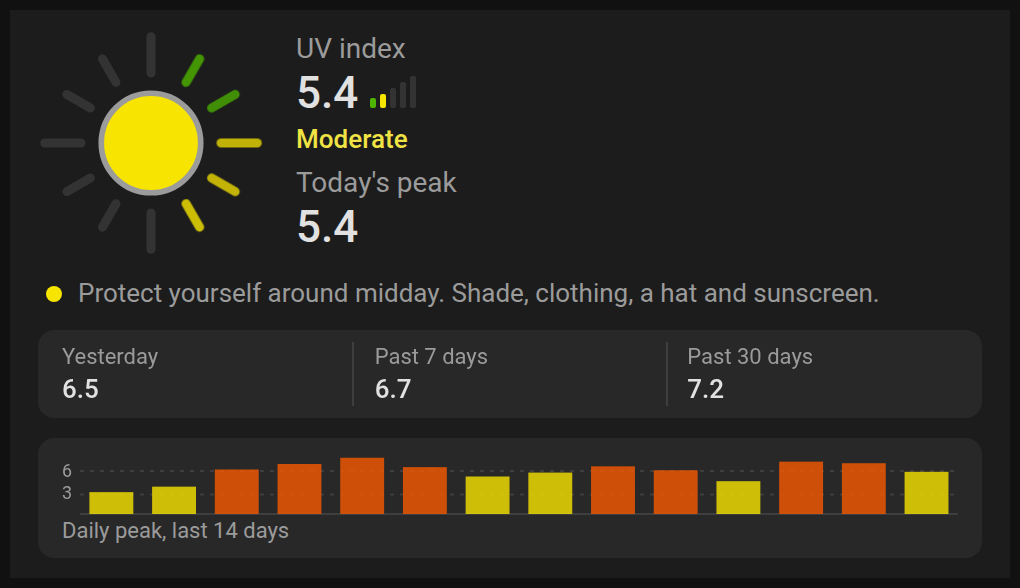
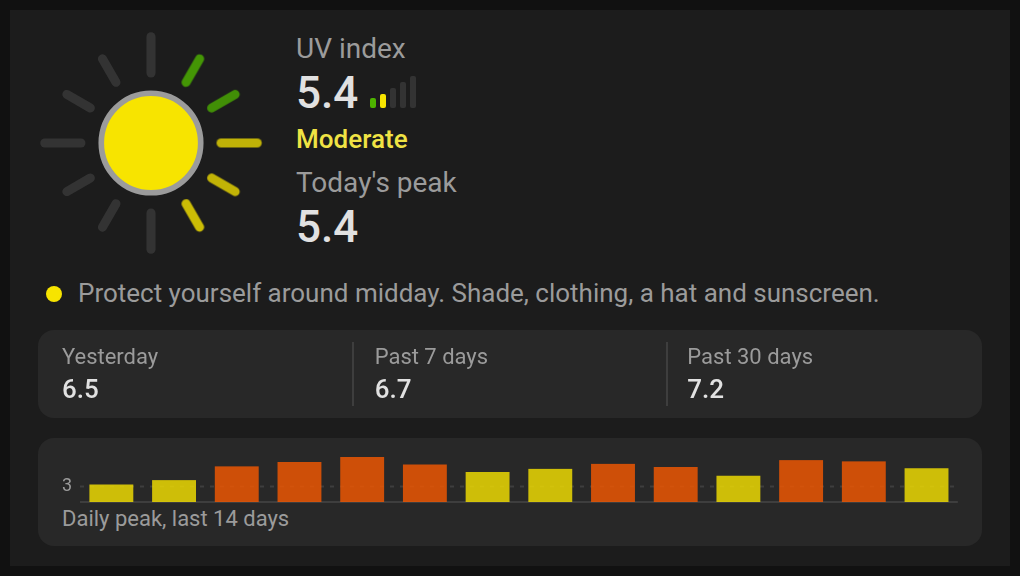
Keep the default rows' height with automatic rows, shorter charts and the same 10 px gap under every part
In a sections view with automatic rows the card took its contents' height, which
left part of its last row empty. It now takes the height of the rows it asks for by
default, three and one for each part.

The charts' plots are 24 px instead of 30, so a chart is 54 px and with its gap
exactly the row it asks for, and the peaks and the charts all have the same 10 px
gap under them at every width, as on the rain gauge card. A chart shows fewer level
lines where two would now be closer than their values need.

diff --git a/dist/compact-uv-index-card.js b/dist/compact-uv-index-card.js
@@ -668,7 +668,7 @@ var GestureDetector = class {
 var WIDTH = 100;
 var HEIGHT = 32;
 var TOP = 2;
-var PLOT_HEIGHT = 30;
+var PLOT_HEIGHT = 24;
 var MARKS = [3, 6, 8, 11];
 var MARK_GAP = 10;
 var BASELINE_GAP = 5;
@@ -790,12 +790,12 @@ var CompactUvIndexChart = class extends i4 {
                 position: relative;
                 flex: 1;
                 min-width: 0;
-                height: 30px;
+                height: 24px;
                 touch-action: pan-y;
             }
             .axis {
                 position: relative;
-                height: 30px;
+                height: 24px;
                 margin-right: 4px;
                 font-size: 9px;
                 line-height: 9px;
@@ -1726,7 +1726,7 @@ var CompactUvIndexCard = class extends i4 {
     return b2`
             <ha-card
                 class=${tappable ? "tappable" : ""}
-                style=${this.colours()}
+                style=${[this.colours(), this.autoHeight()].filter(Boolean).join("; ")}
                 role=${tappable ? "button" : A}
                 tabindex=${tappable ? "0" : A}
                 aria-label=${[
@@ -1877,6 +1877,20 @@ var CompactUvIndexCard = class extends i4 {
   /** The outline's colour given in the configuration; without it the card follows the theme. */
   colours() {
     return this.config?.border_colour ? `--uv-index-outline-color: ${this.config.border_colour}` : "";
+  }
+  /**
+   * In a sections view whose rows are left automatic, the card takes the height of the rows it asks for by default
+   * (56 px each and the 8 px gaps between them) rather than its contents', which would leave part of its last row
+   * empty. Given a number of rows, it fills them, and in a masonry view its contents decide.
+   */
+  autoHeight() {
+    const grid = this.config?.grid_options;
+    const older = this.config?.layout_options;
+    const rows = grid ? grid.rows : older?.grid_rows;
+    if (this.layout !== "grid" || typeof rows === "number") {
+      return "";
+    }
+    return `height: ${(3 + this.parts()) * 64 - 8}px`;
   }
   act(gesture) {
     this.dispatchEvent(
@@ -2359,12 +2373,22 @@ var CompactUvIndexCard = class extends i4 {
                     animation: none;
                 }
             }
+
+            /* The same gap under every part at every width, so the peaks and the charts are evenly spaced down to the card's
+               edge. A chart is 54 px, so with its gap it takes exactly the 64 px row it asks for. */
+            .content .extras,
+            .content .chart {
+                margin-bottom: 10px;
+            }
         `;
   }
 };
 __decorateClass([
   n4({ attribute: false })
 ], CompactUvIndexCard.prototype, "hass", 2);
+__decorateClass([
+  n4({ attribute: false })
+], CompactUvIndexCard.prototype, "layout", 2);
 __decorateClass([
   r5()
 ], CompactUvIndexCard.prototype, "config", 2);

diff --git a/src/compact-uv-index-card.ts b/src/compact-uv-index-card.ts
@@ -101,6 +101,8 @@ export function fitCard(content: HTMLElement): void {
 @customElement("compact-uv-index-card")
 export class CompactUvIndexCard extends LitElement {
     @property({ attribute: false }) public hass?: HomeAssistant;
+    /** Set by the dashboard: "grid" in a sections view. */
+    @property({ attribute: false }) public layout?: string;
     @state() private config?: CompactUvIndexCardConfig;
     /** The highest index of recent days, from the recorder. Today's is replaced with today's peak. */
     @state() private days?: DayPeak[];
@@ -335,7 +337,7 @@ export class CompactUvIndexCard extends LitElement {
         return html`
             <ha-card
                 class=${tappable ? "tappable" : ""}
-                style=${this.colours()}
+                style=${[this.colours(), this.autoHeight()].filter(Boolean).join("; ")}
                 role=${tappable ? "button" : nothing}
                 tabindex=${tappable ? "0" : nothing}
                 aria-label=${[
@@ -502,6 +504,21 @@ export class CompactUvIndexCard extends LitElement {
     /** The outline's colour given in the configuration; without it the card follows the theme. */
     private colours(): string {
         return this.config?.border_colour ? `--uv-index-outline-color: ${this.config.border_colour}` : "";
+    }
+
+    /**
+     * In a sections view whose rows are left automatic, the card takes the height of the rows it asks for by default
+     * (56 px each and the 8 px gaps between them) rather than its contents', which would leave part of its last row
+     * empty. Given a number of rows, it fills them, and in a masonry view its contents decide.
+     */
+    private autoHeight(): string {
+        const grid = this.config?.grid_options as { rows?: unknown } | undefined;
+        const older = this.config?.layout_options as { grid_rows?: unknown } | undefined;
+        const rows = grid ? grid.rows : older?.grid_rows;
+        if (this.layout !== "grid" || typeof rows === "number") {
+            return "";
+        }
+        return `height: ${(3 + this.parts()) * 64 - 8}px`;
     }
 
     private act(gesture: Gesture): void {
@@ -987,6 +1004,13 @@ export class CompactUvIndexCard extends LitElement {
                 .glow {
                     animation: none;
                 }
+            }
+
+            /* The same gap under every part at every width, so the peaks and the charts are evenly spaced down to the card's
+               edge. A chart is 54 px, so with its gap it takes exactly the 64 px row it asks for. */
+            .content .extras,
+            .content .chart {
+                margin-bottom: 10px;
             }
         `;
     }

diff --git a/tests/card.test.ts b/tests/card.test.ts
@@ -264,6 +264,29 @@ describe("the size of the card", () => {
         expect(element.getGridOptions().rows).toBe(4);
     });
 
+    it.each([
+        ["automatic rows in a sections view", "grid", { grid_options: { rows: "auto" } }, "height: 312px"],
+        ["the older layout options' automatic rows in a sections view", "grid", { layout_options: { grid_rows: "auto" } }, "height: 312px"],
+        ["no rows given in a sections view", "grid", {}, "height: 312px"],
+        ["a number of rows in a sections view", "grid", { grid_options: { rows: 3 } }, ""],
+        ["a masonry view", undefined, { grid_options: { rows: "auto" } }, ""],
+    ])("is as tall as its own rows with %s, and otherwise fills the space it gets", async (_name, layout, extra, height) => {
+        const element = document.createElement("compact-uv-index-card") as CompactUvIndexCard;
+        element.setConfig({
+            type: "custom:compact-uv-index-card",
+            entity: UV,
+            show_daily_chart: true,
+            show_hourly_chart: true,
+            ...extra,
+        } as never);
+        element.hass = hass();
+        element.layout = layout;
+        document.body.append(element);
+        await element.updateComplete;
+        const style = root(element).querySelector("ha-card")?.getAttribute("style") ?? "";
+        expect(style.split("; ").find((part) => part.startsWith("height")) ?? "").toBe(height);
+    });
+
     it("leaves out the hourly chart first, then the daily one, the peaks and the advice, until the rest fits", () => {
         const { content } = layout({ card: 200, content: () => 420 - hidden() * 60 });
         fitCard(content);

diff --git a/src/chart.ts b/src/chart.ts
@@ -21,7 +21,7 @@ const HEIGHT = 32;
 /** Room above the highest value, so a peak doesn't touch the top. */
 const TOP = 2;
 /** The plot's height in pixels, as in the styles below. */
-const PLOT_HEIGHT = 30;
+const PLOT_HEIGHT = 24;
 /** The WHO's steps, which get marker lines as many as fit, the lowest first as it matters most. */
 export const MARKS = [3, 6, 8, 11];
 /** The least room in pixels between two marker lines, and between the lowest and the baseline, so their values fit. */
@@ -170,12 +170,12 @@ export class CompactUvIndexChart extends LitElement {
                 position: relative;
                 flex: 1;
                 min-width: 0;
-                height: 30px;
+                height: 24px;
                 touch-action: pan-y;
             }
             .axis {
                 position: relative;
-                height: 30px;
+                height: 24px;
                 margin-right: 4px;
                 font-size: 9px;
                 line-height: 9px;

diff --git a/tests/drawing.test.ts b/tests/drawing.test.ts
@@ -64,11 +64,11 @@ describe("the marker lines", () => {
         [5.5, [3, 6]],
         [6, [3, 6]],
         [9, [3, 8]],
-        [12, [3, 8]],
+        [12, [6]],
         [15, [6]],
         [20, [6]],
-        [35, [8]],
-        [50, [11]],
+        [35, [11]],
+        [50, []],
         [60, []],
     ])("show the steps the chart reaches, apart enough for their values, at a top of %s", (top, steps) => {
         expect(stepsShown(top)).toEqual(steps);

diff --git a/README.md b/README.md
@@ -6,8 +6,8 @@ it.
 [![GitHub Release][releases-shield]][releases] [![GitHub Release Date][release-date-shield]][releases] [![HACS][hacs-shield]][hacs] [![License][license-shield]](LICENSE)
 
 <p>
-<img src="https://raw.githubusercontent.com/jesmak/compact-uv-index-card/main/docs/images/everything-light.png#gh-light-mode-only" width="400" alt="A sun with five of its twelve rays lit beside a UV index of 5.4, moderate, and today's peak, protection advice under it, then the peaks of yesterday, the past week and the past month, and bars of the last 14 days' peaks in their levels' colours against dashed lines marking 3 and 6">
-<img src="https://raw.githubusercontent.com/jesmak/compact-uv-index-card/main/docs/images/everything-dark.png#gh-dark-mode-only" width="400" alt="A sun with five of its twelve rays lit beside a UV index of 5.4, moderate, and today's peak, protection advice under it, then the peaks of yesterday, the past week and the past month, and bars of the last 14 days' peaks in their levels' colours against dashed lines marking 3 and 6">
+<img src="https://raw.githubusercontent.com/jesmak/compact-uv-index-card/main/docs/images/everything-light.png#gh-light-mode-only" width="400" alt="A sun with five of its twelve rays lit beside a UV index of 5.4, moderate, and today's peak, protection advice under it, then the peaks of yesterday, the past week and the past month, and bars of the last 14 days' peaks in their levels' colours against a dashed line marking 3">
+<img src="https://raw.githubusercontent.com/jesmak/compact-uv-index-card/main/docs/images/everything-dark.png#gh-dark-mode-only" width="400" alt="A sun with five of its twelve rays lit beside a UV index of 5.4, moderate, and today's peak, protection advice under it, then the peaks of yesterday, the past week and the past month, and bars of the last 14 days' peaks in their levels' colours against a dashed line marking 3">
 <img src="https://raw.githubusercontent.com/jesmak/compact-uv-index-card/main/docs/images/sizes-light.png#gh-light-mode-only" width="400" alt="The same card at five sizes in one section, from a quarter of its width and one row to all of it and three rows, the sun beside the figures, above them, or small beside unlabelled figures">
 <img src="https://raw.githubusercontent.com/jesmak/compact-uv-index-card/main/docs/images/sizes-dark.png#gh-dark-mode-only" width="400" alt="The same card at five sizes in one section, from a quarter of its width and one row to all of it and three rows, the sun beside the figures, above them, or small beside unlabelled figures">
 </p>
@@ -111,7 +111,8 @@ The card measures the space it gets and lays itself out to fit:
 
 The advice, the recent days and the charts go under the sun, across the card, the recent days and each chart on a tile
 of their own. In a sections view the card starts at half the width and three rows, with a row more for the recent
-days and for each chart, and can be resized down to a quarter of the width and one row. When it is too low for
+days and for each chart, and can be resized down to a quarter of the width and one row. With its rows set to automatic
+it keeps that height, so it always fills whole rows. When it is too low for
 everything, the hourly chart is left out first, then the daily bars, then the recent days and last the advice, rather
 than squeezing the figures out of their labels. The figures are never cut short. When they need the room, the sun gets
 narrower. Otherwise it keeps its shape, growing with the card's height and shrinking with it.
